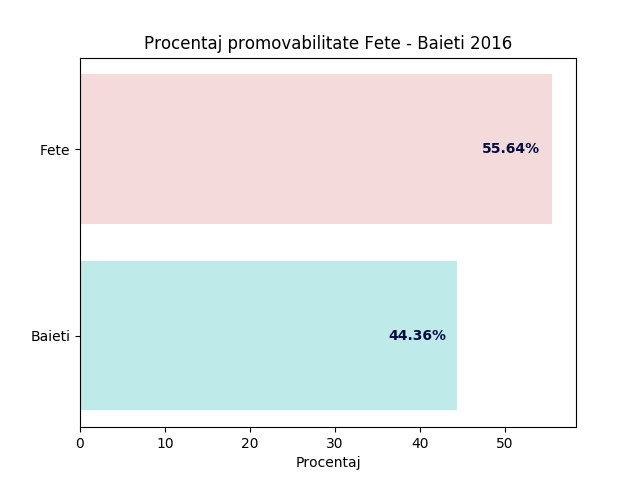
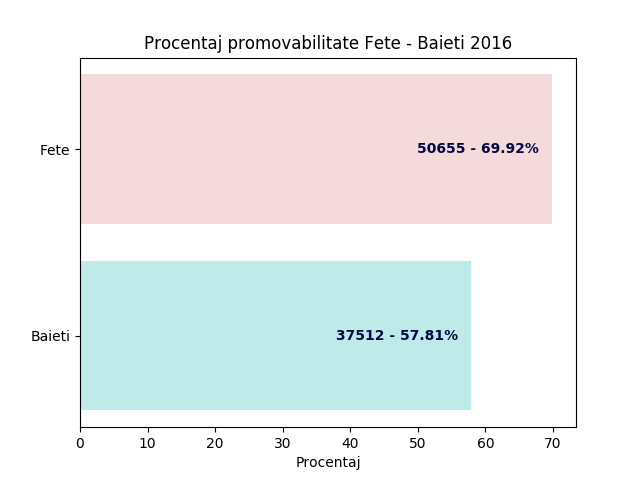
Remade make_barchart_percentage function Showing numbers along percents Made make_barchart_value function Made student filter by passing

diff --git a/create_stats/create_barchart.py b/create_stats/create_barchart.py
@@ -9,6 +9,7 @@ sys.path.append( os.path.dirname(os.path.dirname(os.path.abspath(__file__))) )
 from classes.student import initialize_students, return_grades_as_array, get_gender_distribution
 from filters.student_filters import filter_all
 from create_stats.make_barchart import make_barchart_percentage
+from create_stats.make_barchart import make_barchart_values
 
 def create_barchart_percentage(all_students, current_export_path, year):
     current_export_path_1 = os.path.join(current_export_path, "Fete-Baieti")
@@ -17,16 +18,24 @@ def create_barchart_percentage(all_students, current_export_path, year):
 
     current_export_path_1 = os.path.join(current_export_path_1, str(year))
 
-    all_students = filter_all(all_students, grade=5)
+    all_students_passed = filter_all(all_students, passed="Promovat")
     all_boys = filter_all(all_students, gender="M")
     all_girls = filter_all(all_students, gender="F")
 
+    all_boys_passed = filter_all(all_students_passed, gender="M")
+    all_girls_passed = filter_all(all_students_passed, gender="F")
+    
+
     students_list = [all_boys, all_girls]
+    students_list_passed = [all_boys_passed, all_girls_passed]
     name_list = ["Baieti", "Fete"]
     colors = ['#BEEBE9', '#F4DADA']
 
-    make_barchart_percentage(all_categories = students_list, categories_names = name_list, title = ("Procentaj promovabilitate Fete - Baieti " + str(year)), current_export_path = current_export_path_1, colors = colors)
-    current_export_path_2 = os.path.join(current_export_path, "Fete-Baieti mate-info si filo")
+    make_barchart_percentage(all_categories = students_list, all_categories_good = students_list_passed, categories_names = name_list, title = ("Procentaj promovabilitate Fete - Baieti " + str(year)), current_export_path = current_export_path_1, colors = colors)
+    
+    
+    
+    current_export_path_2 = os.path.join(current_export_path, "Fete-Baieti mate-info, filo si stiinte")
     if( os.path.exists(current_export_path_2) == False):
         os.mkdir(current_export_path_2)
 
@@ -36,8 +45,42 @@ def create_barchart_percentage(all_students, current_export_path, year):
     girls_filo = filter_all(all_students, gender="F", specialisation="filologie")
     boys_mate_info = filter_all(all_students, gender="M", specialisation="matematica-informatica")
     girls_mate_info = filter_all(all_students, gender="F", specialisation="matematica-informatica")
-    colors = ['#BEEBE9', '#F4DADA', '#BEEBE9', '#F4DADA']
+    boys_stiinte = filter_all(all_students, gender="M", specialisation="stiinte ale naturii")
+    girls_stiinte = filter_all(all_students, gender="F", specialisation="stiinte ale naturii")
+    colors = ['#BEEBE9', '#F4DADA', '#BEEBE9', '#F4DADA', '#BEEBE9', '#F4DADA']
 
-    students_list = [boys_filo, girls_filo, boys_mate_info, girls_mate_info]
-    name_list = ["Baieti \nfilologie",  "Fete  \nfilologie", "Baieti   \nmate-info", "Fete    \nmate-info"]
-    make_barchart_percentage(all_categories = students_list, categories_names = name_list, title = ("Procentaj promovabilitate Fete - Baieti mate-info si filologie " + str(year)), current_export_path = current_export_path2, colors = colors)
+    students_list = [boys_filo, girls_filo, boys_mate_info, girls_mate_info, boys_stiinte, girls_stiinte]
+    name_list = ["Baieti \nfilologie",  "Fete  \nfilologie", "Baieti   \nmate-info", "Fete    \nmate-info", "Baieti \nstiinte", "Fete  \nstiinte"]
+    
+    students_list_passed = []
+
+    for crt_student_list in students_list:
+        students_list_passed.append(filter_all(crt_student_list,passed = "Promovat"))
+    
+    make_barchart_percentage(all_categories = students_list, all_categories_good = students_list_passed,categories_names = name_list, title = ("Procentaj promovabilitate Fete - Baieti \nmate-info, filologie si stiinte ale naturii" + str(year)), current_export_path = current_export_path2, colors = colors)
+
+
+
+
+    mate_info = filter_all(all_students, specialisation="matematica-informatica")
+    stiinte = filter_all(all_students, specialisation="stiinte ale naturii")
+
+    grade_mate_info_romana = 0
+    grade_stiinte_romana = 0
+
+    for element in mate_info:
+        grade_mate_info_romana += element.subject1_grade_final
+
+    for element in stiinte:
+        grade_stiinte_romana += element.subject1_grade_final
+
+    current_export_path_3 = os.path.join(current_export_path, "Romana mate-info si stiinte")
+    if( os.path.exists(current_export_path_3) == False):
+        os.mkdir(current_export_path_3)
+
+    current_export_path_3 = os.path.join(current_export_path_3, str(year))
+
+    grade_mate_info_romana = float(grade_mate_info_romana) / float(len(mate_info))
+    grade_stiinte_romana = float(grade_stiinte_romana) / float(len(stiinte))
+    grades = [grade_mate_info_romana, grade_stiinte_romana]
+    make_barchart_values(grades, ["mate-info", "stiinte"], "Note romana", current_export_path_3, ['#BEEBE9', '#F4DADA'])

diff --git a/create_stats/make_barchart.py b/create_stats/make_barchart.py
@@ -1,13 +1,12 @@
 import numpy as np
 import matplotlib.pyplot as plt 
 
-def make_barchart_percentage(all_categories, categories_names, title, current_export_path, colors):
-    all_categories_no = 0
-    for category in all_categories:
-        all_categories_no += len(category)
+def make_barchart_percentage(all_categories, all_categories_good, categories_names, title, current_export_path, colors):
+
     percentage = []
-    for category in all_categories:
-        percentage.append(float(len(category)) / all_categories_no * 100)
+    for i in range(len(all_categories)):
+        percentage.append(float(len(all_categories_good[i])) / float(len(all_categories[i])) * 100)
+    
     
     plt.rcdefaults()
     fig,ax = plt.subplots()
@@ -21,7 +20,7 @@ def make_barchart_percentage(all_categories, categories_names, title, current_ex
         # converting width to int type
         width = int(rect.get_width())
 
-        value = percentage[i]
+        value = str(round(percentage[i], 2)) + '%'
         # Shift the text to the left side of the right edge
         xloc = -5
         # White on magenta
@@ -30,7 +29,7 @@ def make_barchart_percentage(all_categories, categories_names, title, current_ex
 
         # Center the text vertically in the bar
         yloc = rect.get_y() + rect.get_height() / 2
-        label = ax.annotate(str(round(value, 2)) + '%', xy=(width, yloc), xytext=(xloc, 0),
+        label = ax.annotate(str(len(all_categories_good[i])) + " - " + value, xy=(width, yloc), xytext=(xloc, 0),
                             textcoords="offset points",
                             ha=align, va='center',
                             color=clr, weight='bold', clip_on=True)
@@ -39,6 +38,46 @@ def make_barchart_percentage(all_categories, categories_names, title, current_ex
     ax.set_yticks(y_pos)
     ax.set_yticklabels(categories_names)
     ax.set_xlabel('Procentaj')
+    
+
+    ax.set_title(title)
+    #ax.annotate
+
+    plt.savefig(current_export_path)
+
+def make_barchart_values(all_categories, categories_names, title, current_export_path, colors):
+    
+    
+    plt.rcdefaults()
+    fig,ax = plt.subplots()
+    y_pos = np.arange(len(all_categories))
+
+    rects = ax.barh(y_pos, all_categories, align='center', color=colors)
+    i = 0
+    for rect in rects:
+        # Rectangle widths are already integer-valued but are floating
+        # type, so it helps to remove the trailing decimal point and 0 by
+        # converting width to int type
+        width = int(rect.get_width())
+
+        value = all_categories[i]
+        # Shift the text to the left side of the right edge
+        xloc = -5
+        # White on magenta
+        clr = '#010a43'
+        align = 'right'
+
+        # Center the text vertically in the bar
+        yloc = rect.get_y() + rect.get_height() / 2
+        label = ax.annotate(str(round(value, 2)), xy=(width, yloc), xytext=(xloc, 0),
+                            textcoords="offset points",
+                            ha=align, va='center',
+                            color=clr, weight='bold', clip_on=True)
+        i = i + 1
+
+    ax.set_yticks(y_pos)
+    ax.set_yticklabels(categories_names)
+    ax.set_xlabel('Nota')
     
 
     ax.set_title(title)

diff --git a/filters/student_filters.py b/filters/student_filters.py
@@ -1,6 +1,6 @@
 
 def filter_all(all_students,specialisation = None, grade = None, gender = None, medium = None,
-           highschool = None, locality = None, region = None, class_name = None):
+           highschool = None, locality = None, region = None, class_name = None, passed = None):
 
     all_students = filter_by_specialisation(all_students, specialisation)
     all_students = filter_by_grade(all_students, grade)
@@ -10,6 +10,7 @@ def filter_all(all_students,specialisation = None, grade = None, gender = None, 
     all_students = filter_by_locality(all_students, locality)
     all_students = filter_by_region(all_students, region)
     all_students = filter_by_class(all_students, class_name)
+    all_students = filter_by_passing(all_students, passed)
     return all_students
 
 def filter_by_specialisation(all_students, specialisation = None):
@@ -129,5 +130,15 @@ def filter_by_class(all_students, class_name = None):
     selected_students = []
     for current_student in all_students:
         if current_student.highschool.class_name == class_name:
+            selected_students.append(current_student)
+    return selected_students
+
+def filter_by_passing(all_students, passed = None):
+    if passed == None:
+        return all_students
+
+    selected_students = []
+    for current_student in all_students:
+        if current_student.passed == passed:
             selected_students.append(current_student)
     return selected_students
